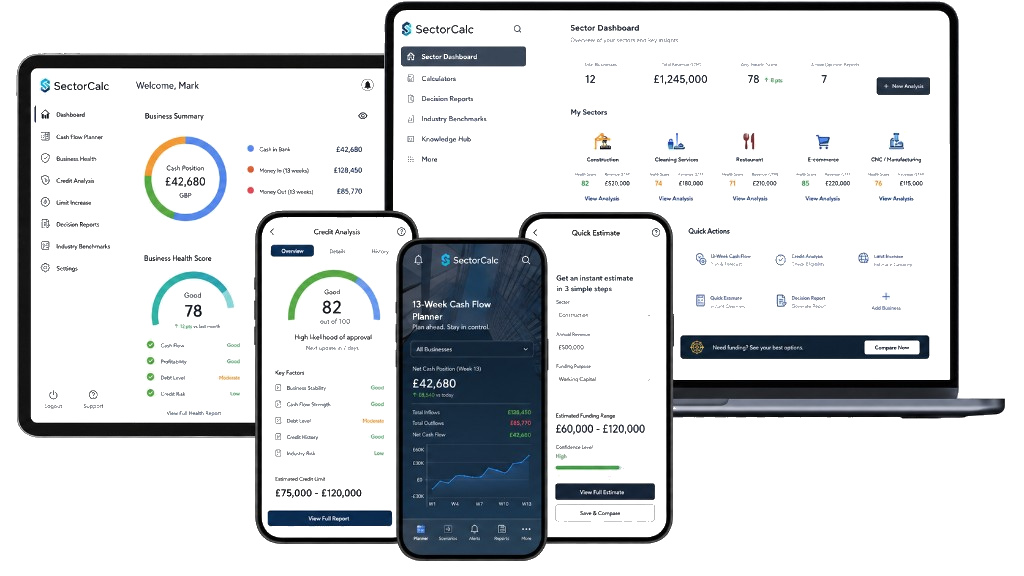
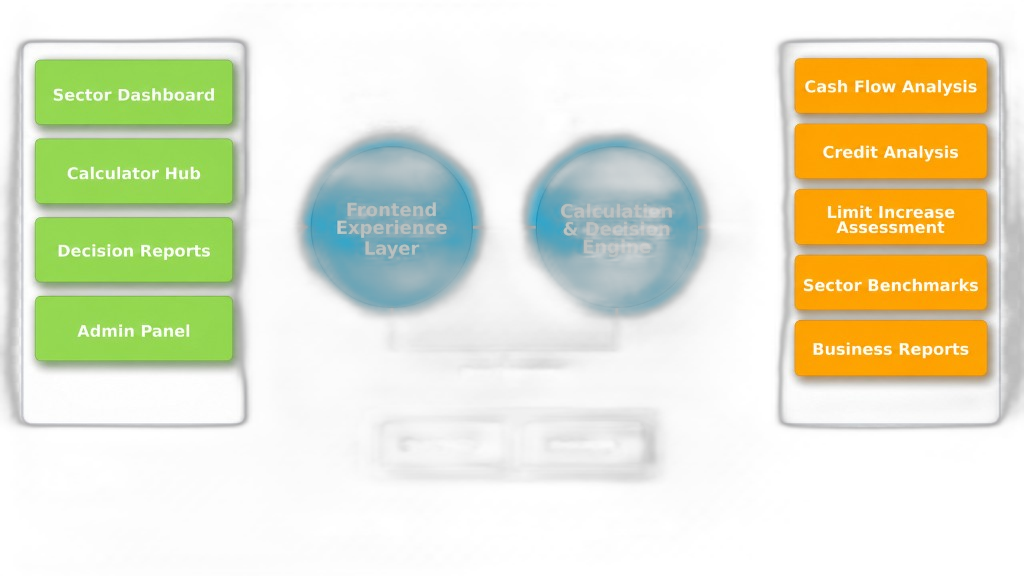
Upgrade homepage sector selector section

diff --git a/src/components/home/SectorSelectorSection.tsx b/src/components/home/SectorSelectorSection.tsx
@@ -1,0 +1,257 @@
+import Link from "next/link";
+import type { SVGProps } from "react";
+
+type SectorIconName =
+  | "construction"
+  | "cleaning"
+  | "restaurant"
+  | "ecommerce"
+  | "manufacturing";
+
+type SectorCard = {
+  title: string;
+  description: string;
+  freeTool: string;
+  premiumTool: string;
+  href: string;
+  icon: SectorIconName;
+};
+
+const sectors: SectorCard[] = [
+  {
+    title: "İnşaat",
+    description:
+      "Proje maliyetini, değişiklik etkisini ve risk payını daha net görün.",
+    freeTool: "Proje Maliyet Tahmincisi",
+    premiumTool: "Değişiklik Emri Etki Analizcisi",
+    href: "/industries/construction",
+    icon: "construction",
+  },
+  {
+    title: "Temizlik",
+    description:
+      "İşçilik, süre ve teklif maliyetini daha kontrollü hesaplayın.",
+    freeTool: "Maliyet Tahmincisi",
+    premiumTool: "Ofis Temizliği Teklif Optimizasyon Aracı",
+    href: "/industries/cleaning",
+    icon: "cleaning",
+  },
+  {
+    title: "Restoran",
+    description:
+      "Yemek maliyetini, menü kârını ve kayıp noktalarını hızlı görün.",
+    freeTool: "Yemek Maliyeti Hesaplayıcısı",
+    premiumTool: "Menü Kâr Kaybı Tespit Aracı",
+    href: "/industries/restaurant",
+    icon: "restaurant",
+  },
+  {
+    title: "E-ticaret",
+    description: "Ürün marjını, iade etkisini ve net kâr kaybını ölçün.",
+    freeTool: "Ürün Kâr Marjı Hesaplayıcı",
+    premiumTool: "İade Oranı Kâr Azalması Aracı",
+    href: "/industries/ecommerce",
+    icon: "ecommerce",
+  },
+  {
+    title: "CNC ve İmalat",
+    description:
+      "Makine saati, setup, fire ve güvenli teklif fiyatını hesaplayın.",
+    freeTool: "Makine Saati Tahmincisi",
+    premiumTool: "CNC Minimum Güvenli Fiyat Teklifi Analizcisi",
+    href: "/industries/cnc-manufacturing",
+    icon: "manufacturing",
+  },
+];
+
+const iconSvgProps: SVGProps<SVGSVGElement> = {
+  className: "h-8 w-8",
+  viewBox: "0 0 24 24",
+  fill: "none",
+  xmlns: "http://www.w3.org/2000/svg",
+  "aria-hidden": true,
+};
+
+function SectorIcon({ name }: { name: SectorIconName }) {
+  if (name === "construction") {
+    return (
+      <svg {...iconSvgProps}>
+        <path
+          d="M4 20h16M6 20V9l6-4 6 4v11M8 20v-7h8v7M9 9h6M12 5v4"
+          stroke="currentColor"
+          strokeWidth="1.8"
+          strokeLinecap="round"
+          strokeLinejoin="round"
+        />
+      </svg>
+    );
+  }
+
+  if (name === "cleaning") {
+    return (
+      <svg {...iconSvgProps}>
+        <path
+          d="M8 4h8M12 4v10M7 20h10M9 14h6l1 6H8l1-6ZM5 9h4M15 9h4"
+          stroke="currentColor"
+          strokeWidth="1.8"
+          strokeLinecap="round"
+          strokeLinejoin="round"
+        />
+      </svg>
+    );
+  }
+
+  if (name === "restaurant") {
+    return (
+      <svg {...iconSvgProps}>
+        <path
+          d="M4 19h16M6 15a6 6 0 0 1 12 0H6ZM12 7V4M8 4v5M16 4v5"
+          stroke="currentColor"
+          strokeWidth="1.8"
+          strokeLinecap="round"
+          strokeLinejoin="round"
+        />
+      </svg>
+    );
+  }
+
+  if (name === "ecommerce") {
+    return (
+      <svg {...iconSvgProps}>
+        <path
+          d="M5 6h2l2 10h8l2-7H8M10 20h.01M17 20h.01M9 10h10"
+          stroke="currentColor"
+          strokeWidth="1.8"
+          strokeLinecap="round"
+          strokeLinejoin="round"
+        />
+      </svg>
+    );
+  }
+
+  return (
+    <svg {...iconSvgProps}>
+      <path
+        d="M4 19h16M6 19V8h5v11M13 19V5h5v14M8 11h1M8 14h1M15 8h1M15 11h1M15 14h1"
+        stroke="currentColor"
+        strokeWidth="1.8"
+        strokeLinecap="round"
+        strokeLinejoin="round"
+      />
+    </svg>
+  );
+}
+
+function ToolLine({
+  label,
+  value,
+  variant,
+}: {
+  label: string;
+  value: string;
+  variant: "free" | "premium";
+}) {
+  const badgeClass =
+    variant === "free"
+      ? "border-cyan/25 bg-cyan/10 text-professional-blue"
+      : "border-emerald/25 bg-emerald/10 text-emerald";
+
+  return (
+    <div className="grid grid-cols-[88px_1fr] items-start gap-3">
+      <span
+        className={`inline-flex h-7 items-center justify-center rounded-full border px-3 text-xs font-semibold ${badgeClass}`}
+      >
+        {label}
+      </span>
+      <span className="min-w-0 text-sm leading-7 text-slate">{value}</span>
+    </div>
+  );
+}
+
+function SectorCardItem({ sector }: { sector: SectorCard }) {
+  return (
+    <article className="group flex h-full flex-col rounded-[28px] border border-slate/15 bg-white p-6 shadow-card transition duration-200 hover:-translate-y-1 hover:border-professional-blue/25 hover:shadow-[0_24px_70px_rgba(15,23,42,0.10)]">
+      <div className="flex gap-4">
+        <div className="flex h-16 w-16 shrink-0 items-center justify-center rounded-2xl border border-cyan/20 bg-off-white text-professional-blue">
+          <SectorIcon name={sector.icon} />
+        </div>
+
+        <div className="min-w-0">
+          <h3 className="text-xl font-semibold tracking-tight text-deep-navy sm:text-2xl">
+            {sector.title}
+          </h3>
+          <p className="mt-2 line-clamp-3 text-sm leading-6 text-slate">
+            {sector.description}
+          </p>
+        </div>
+      </div>
+
+      <div className="mt-auto space-y-3 border-t border-slate/10 pt-5">
+        <ToolLine label="Ücretsiz" value={sector.freeTool} variant="free" />
+        <ToolLine label="Premium" value={sector.premiumTool} variant="premium" />
+      </div>
+
+      <div className="mt-6 pt-1">
+        <Link
+          href={sector.href}
+          className="inline-flex min-h-[44px] items-center justify-center rounded-2xl border border-professional-blue/40 bg-white px-5 text-sm font-semibold text-professional-blue transition hover:bg-cyan/10 focus:outline-none focus:ring-2 focus:ring-professional-blue focus:ring-offset-2"
+          aria-label={`${sector.title} araçlarını gör`}
+        >
+          Araçları Gör
+          <span
+            className="ml-2 transition-transform group-hover:translate-x-0.5"
+            aria-hidden="true"
+          >
+            →
+          </span>
+        </Link>
+      </div>
+    </article>
+  );
+}
+
+export default function SectorSelectorSection() {
+  const topRow = sectors.slice(0, 3);
+  const bottomRow = sectors.slice(3);
+
+  return (
+    <section
+      id="industries"
+      aria-labelledby="sector-selector-heading"
+      className="relative overflow-hidden border-t border-slate/15 bg-off-white py-16 sm:py-20 lg:py-24"
+    >
+      <div
+        className="pointer-events-none absolute inset-0 opacity-30 [background-image:radial-gradient(rgba(15,23,42,0.04)_1px,transparent_1px)] [background-size:22px_22px]"
+        aria-hidden="true"
+      />
+
+      <div className="relative mx-auto max-w-7xl px-4 sm:px-6 lg:px-8">
+        <div className="mx-auto max-w-3xl text-center">
+          <h2
+            id="sector-selector-heading"
+            className="text-balance text-3xl font-semibold tracking-tight text-deep-navy sm:text-4xl lg:text-5xl lg:leading-tight"
+          >
+            Beş aktif sektörden birini seçin
+          </h2>
+
+          <p className="mx-auto mt-4 max-w-2xl text-pretty text-base leading-7 text-slate sm:mt-5 sm:text-lg sm:leading-8">
+            Sektörünüze özel ücretsiz araçlarla hızlı hesaplama yapın; premium
+            analizlerle maliyet, fiyat ve risk kararlarını daha net görün.
+          </p>
+        </div>
+
+        <div className="mt-12 grid grid-cols-1 gap-6 md:grid-cols-2 xl:grid-cols-3">
+          {topRow.map((sector) => (
+            <SectorCardItem key={sector.title} sector={sector} />
+          ))}
+        </div>
+
+        <div className="mx-auto mt-6 grid max-w-4xl grid-cols-1 gap-6 md:grid-cols-2">
+          {bottomRow.map((sector) => (
+            <SectorCardItem key={sector.title} sector={sector} />
+          ))}
+        </div>
+      </div>
+    </section>
+  );
+}

diff --git a/src/app/page.tsx b/src/app/page.tsx
@@ -2,7 +2,7 @@ import type { Metadata } from "next";
 import { PageLayout } from "@/components/layout/PageLayout";
 import { HeroSection } from "@/components/sections/HeroSection";
 import { PlatformIntroSection } from "@/components/sections/PlatformIntroSection";
-import { HomeSectorBridgeSection } from "@/components/sections/HomeSectorBridgeSection";
+import SectorSelectorSection from "@/components/home/SectorSelectorSection";
 import { PlatformPillarsSection } from "@/components/sections/PlatformPillarsSection";
 import { MagiClickSplitSection } from "@/components/sections/MagiClickSplitSection";
 import { PlatformCapabilitiesSection } from "@/components/sections/PlatformCapabilitiesSection";
@@ -29,7 +29,7 @@ export default function HomePage() {
             <div id="sector-product">
               <HeroSection />
               <PlatformIntroSection />
-              <HomeSectorBridgeSection />
+              <SectorSelectorSection />
               <PlatformPillarsSection />
               <MagiClickSplitSection
                 tabClass="fifth-tab"

diff --git a/src/components/ui/MagiClickIllustrations.tsx b/src/components/ui/MagiClickIllustrations.tsx
@@ -36,13 +36,13 @@ function ProductImage({
   );
 }
 
-/** Homepage hero — multi-device SectorCalc platform mockup */
+/** Homepage hero — SectorCalc platform architecture overview */
 export function HeroPlatformIllustration({ className = "" }: IllustrationProps) {
   const hero = BRAND_ASSETS.heroDevices;
   return (
     <Image
       src={hero.src}
-      alt="SectorCalc platform on laptop, tablet and mobile — sector dashboards and decision tools"
+      alt="SectorCalc platform flow — dashboards, calculators, decision engine and sector reports"
       width={hero.width}
       height={hero.height}
       priority

diff --git a/src/styles/magiclick-product.css b/src/styles/magiclick-product.css
@@ -209,8 +209,8 @@ section.mc-page-hero.mc-page-hero--home .mc-page-hero-head {
 }
 
 #sector-product .first-tab .apple-image .mc-hero-visual {
-  max-width: 920px;
-  max-height: min(40vw, 340px);
+  max-width: min(980px, 94vw);
+  max-height: min(44vw, 400px);
   width: 100%;
   height: auto;
   object-fit: contain;